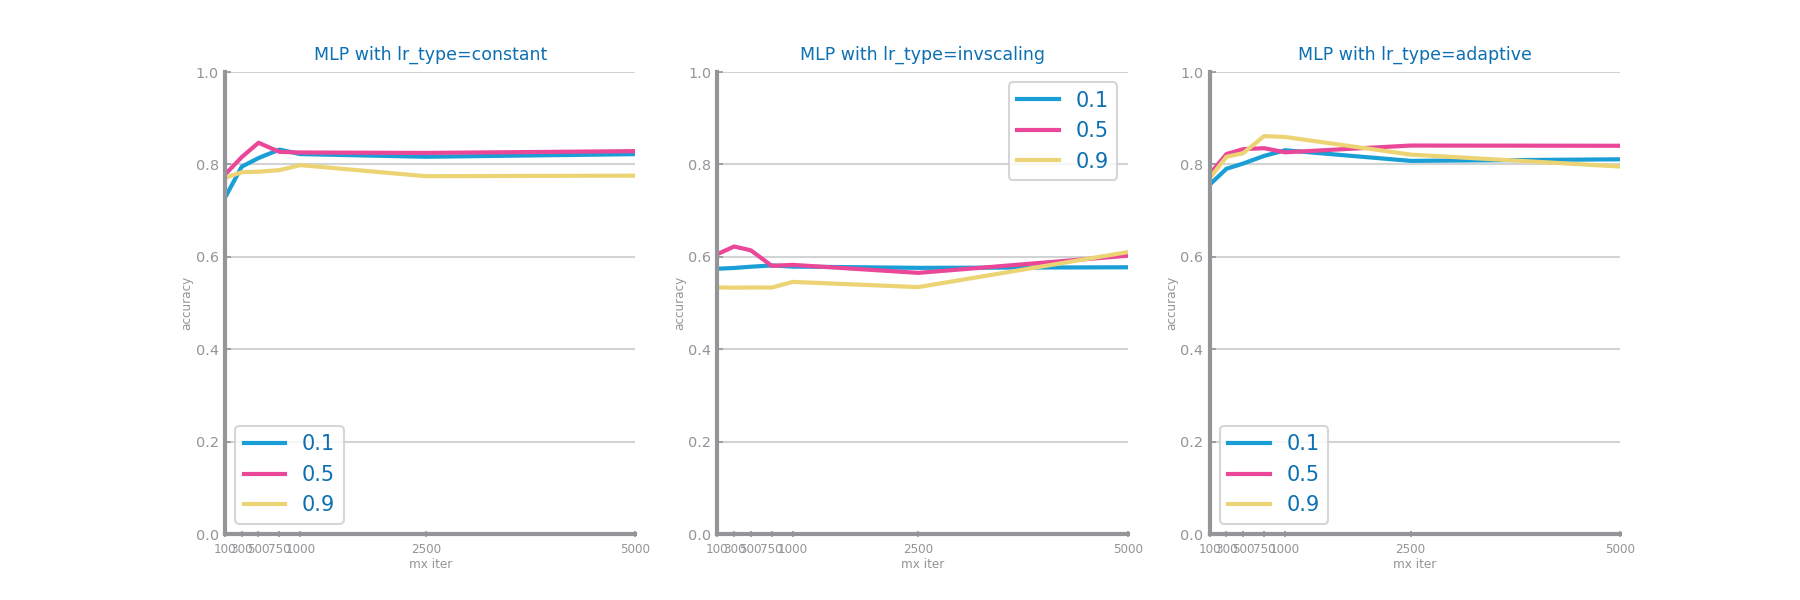
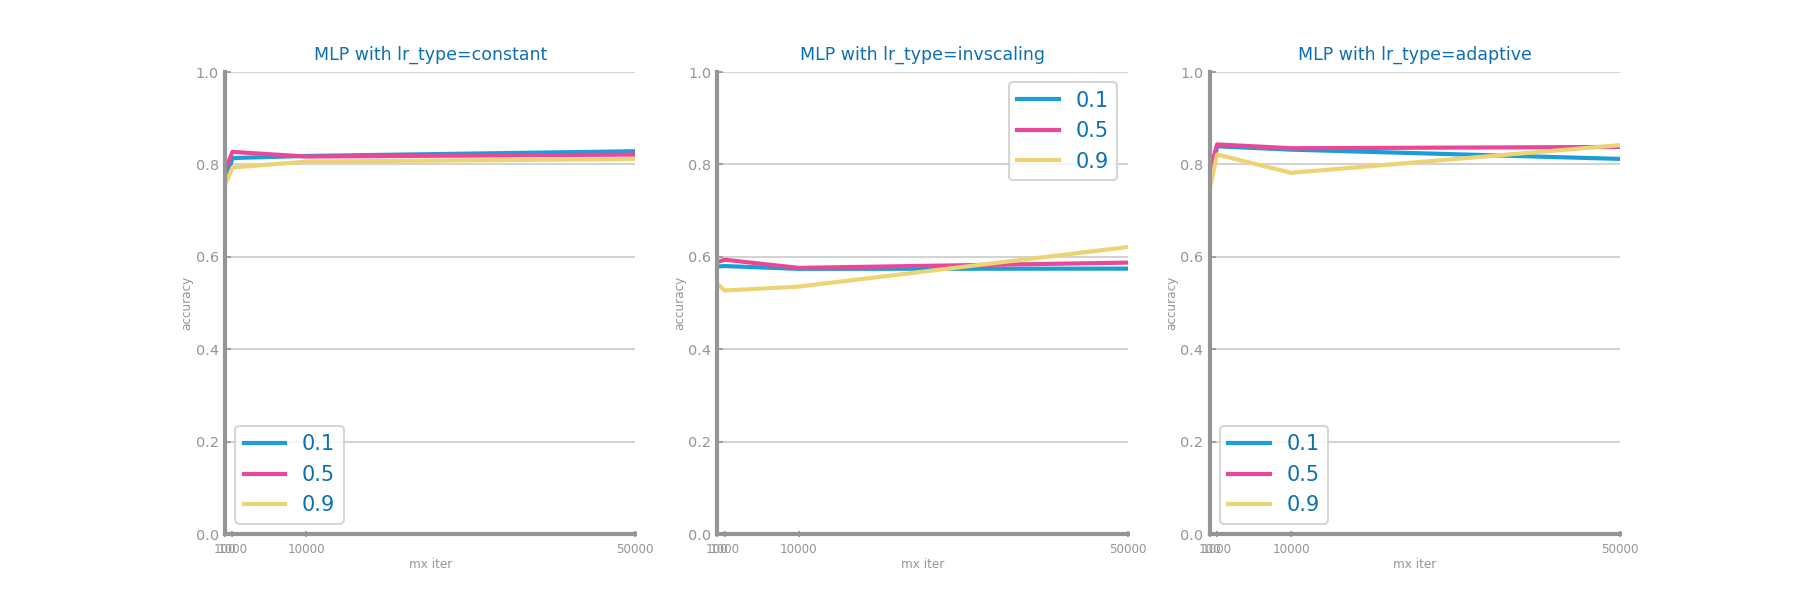
nn

diff --git a/NN.py b/NN.py
@@ -5,7 +5,7 @@ from sklearn.neural_network import MLPClassifier
 from ds_charts import plot_evaluation_results, multiple_line_chart, horizontal_bar_chart, HEIGHT, plot_overfitting_study
 from sklearn.metrics import accuracy_score
 
-dataset = 'drought'
+dataset = 'diabetic'
 
 if dataset == 'diabetic':
     file_tag = 'diabetic'
@@ -27,7 +27,7 @@ tstY: ndarray = test.pop(target).values
 tstX: ndarray = test.values
 
 lr_type = ['constant', 'invscaling', 'adaptive']
-max_iter = [100, 300, 500, 750, 1000, 2500, 5000]
+max_iter = [500, 750, 1000, 2500, 5000, 10000, 50000]
 learning_rate = [.1, .5, .9]
 best = ('', 0, 0)
 last_best = 0
@@ -80,5 +80,5 @@ for n in max_iter:
     y_tst_values.append(eval_metric(tstY, prd_tst_Y))
     y_trn_values.append(eval_metric(trnY, prd_trn_Y))
 plot_overfitting_study(max_iter, y_trn_values, y_tst_values, name=f'NN_lr_type={lr_type}_lr={lr}', xlabel='nr episodes', ylabel=str(eval_metric))
-savefig(f'images/MLP/{file_tag}_overfitting.png')
+savefig(f'images/MLP/{file_tag}_mlp_best.png')
 show()
